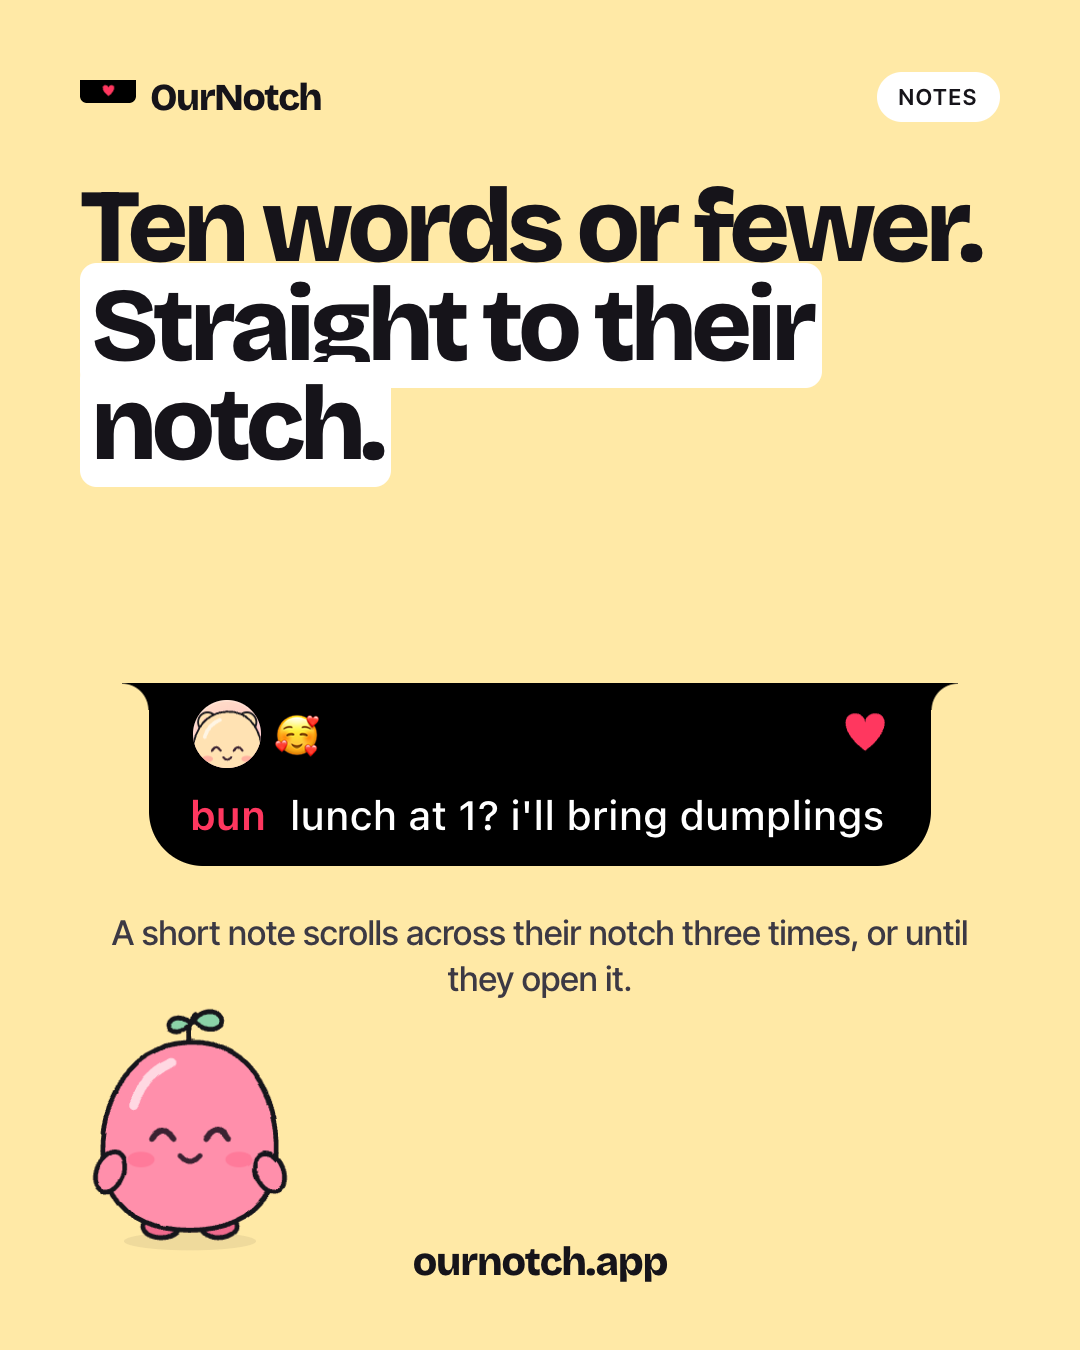
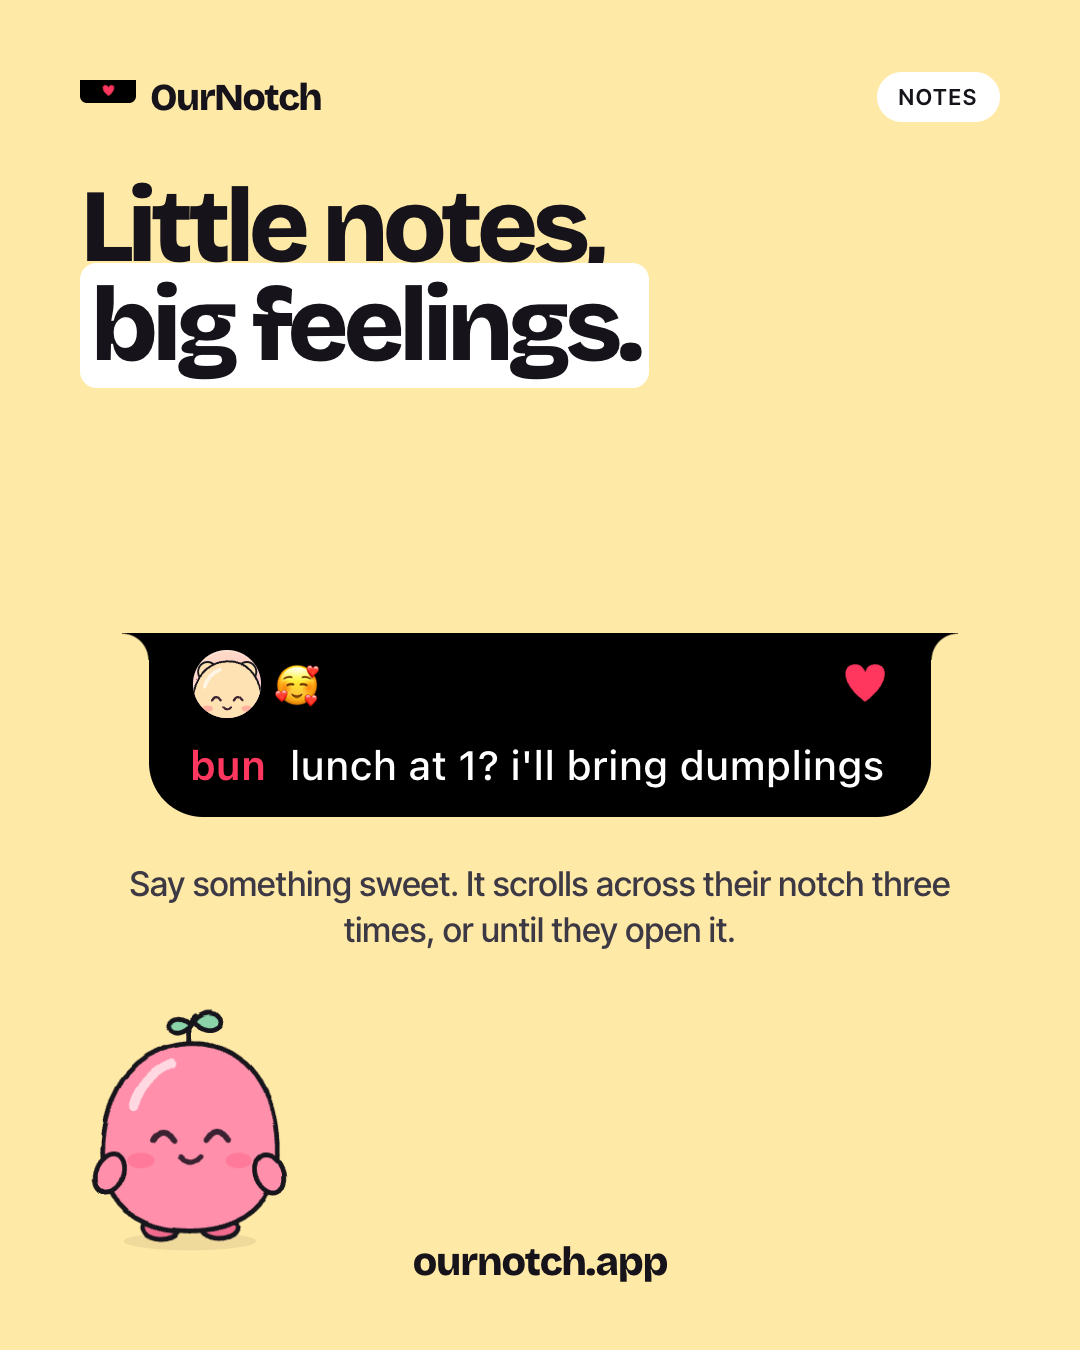
Website: the notes card sells the feeling, not the word limit

diff --git a/website/lib/i18n.ts b/website/lib/i18n.ts
@@ -33,7 +33,7 @@ const en = {
     p: "It's closed most of the day, and still shows you a little bit of them. Hover over it to send something back.",
   },
   bento: {
-    noteTitle: 'Ten words or fewer.', noteBody: 'A short note scrolls across their notch three times, or until they open it.',
+    noteTitle: 'Little notes, big feelings.', noteBody: 'Say something sweet. It scrolls across their notch three times, or until they open it.',
     ticker: "lunch at 1? i'll bring dumplings 🥟",
     heartTitle: 'One tap, many hearts.', heartBody: 'Tap an emoji and it pours out of their notch, or floats up across their whole screen.',
     moodTitle: 'How you are, at a glance.', moodBody: 'Pick one of twelve moods. It sits next to your face in their notch.', moodsLabel: 'Moods',
@@ -192,7 +192,7 @@ const fr: Copy = {
     p: 'Elle reste fermée presque toute la journée, et te montre quand même un peu de ta personne. Survole-la pour répondre.',
   },
   bento: {
-    noteTitle: 'Dix mots ou moins.', noteBody: 'Un petit mot défile trois fois dans son encoche, ou jusqu’à ce qu’elle l’ouvre.',
+    noteTitle: 'Petits mots, grands sentiments.', noteBody: 'Dis-lui un mot doux. Il défile trois fois dans son encoche, ou jusqu’à ce qu’elle l’ouvre.',
     ticker: 'déj à 13 h ? j’apporte des raviolis 🥟',
     heartTitle: 'Un clic, plein de cœurs.', heartBody: 'Choisis un emoji : il coule de son encoche, ou s’envole sur tout son écran.',
     moodTitle: 'Comment tu vas, en un coup d’œil.', moodBody: 'Choisis une humeur parmi douze. Elle s’affiche à côté de ton visage dans son encoche.', moodsLabel: 'Humeurs',
@@ -349,7 +349,7 @@ const de: Copy = {
     p: 'Die meiste Zeit ist sie zu und zeigt dir trotzdem ein bisschen von deinem Menschen. Fahr darüber, um etwas zurückzuschicken.',
   },
   bento: {
-    noteTitle: 'Zehn Wörter oder weniger.', noteBody: 'Eine kurze Notiz läuft dreimal durch die Notch – oder bis sie geöffnet wird.',
+    noteTitle: 'Kleine Notizen, große Gefühle.', noteBody: 'Schreib etwas Süßes. Es läuft dreimal durch die Notch, oder bis es geöffnet wird.',
     ticker: 'mittag um 1? ich bring dumplings mit 🥟',
     heartTitle: 'Ein Klick, viele Herzen.', heartBody: 'Wähl ein Emoji: Es fließt aus der Notch oder schwebt über den ganzen Bildschirm.',
     moodTitle: 'Wie’s dir geht, auf einen Blick.', moodBody: 'Wähl eine von zwölf Launen. Sie erscheint neben deinem Gesicht in der Notch.', moodsLabel: 'Launen',

diff --git a/website/app/(en)/social/page.tsx b/website/app/(en)/social/page.tsx
@@ -40,7 +40,7 @@ const CARDS: Record<string, () => React.ReactNode> = {
     </Frame>
   ),
   note: () => (
-    <Frame size="feed" bg="y-butter" kicker="Notes" title={<>Ten words or fewer.<br /><em>Straight to their notch.</em></>}>
+    <Frame size="feed" bg="y-butter" kicker="Notes" title={<>Little notes,<br /><em>big feelings.</em></>}>
       <Notch zoom={3.4} mood="🥰" tall ticker={t.bento.ticker} />
       <p className="s-body">{t.bento.noteBody}</p>
       <div className="s-pals s-one"><Char kind="pip" className="is-happy" /></div>
